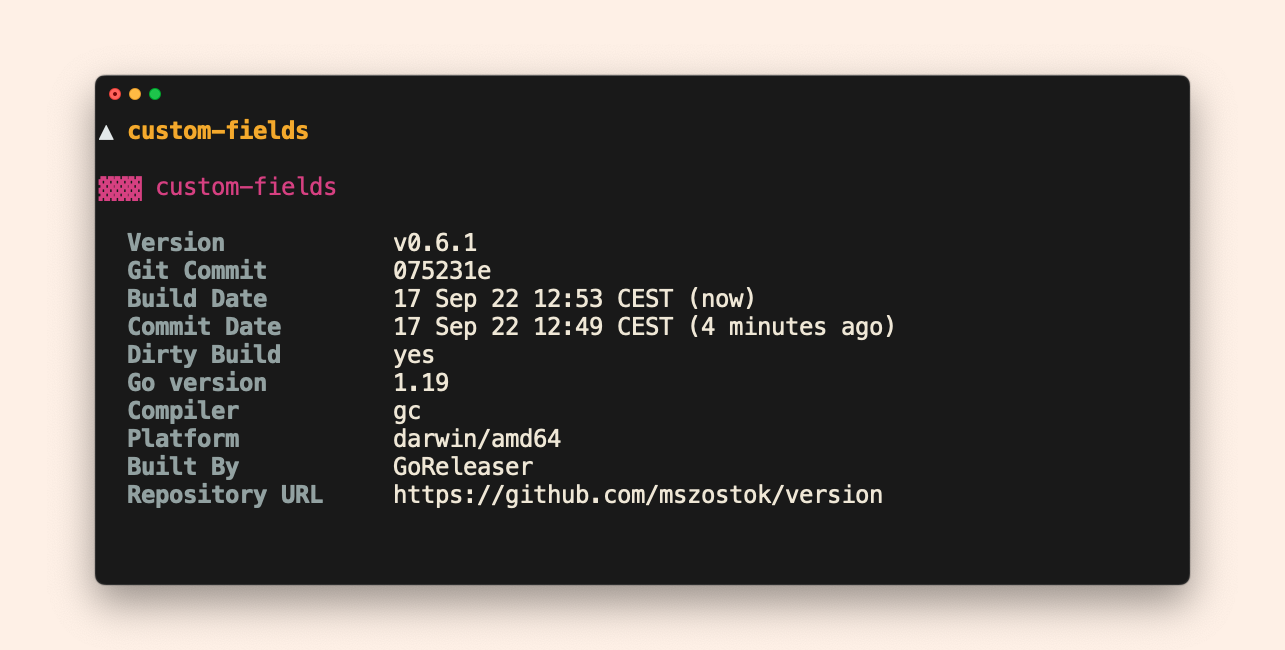
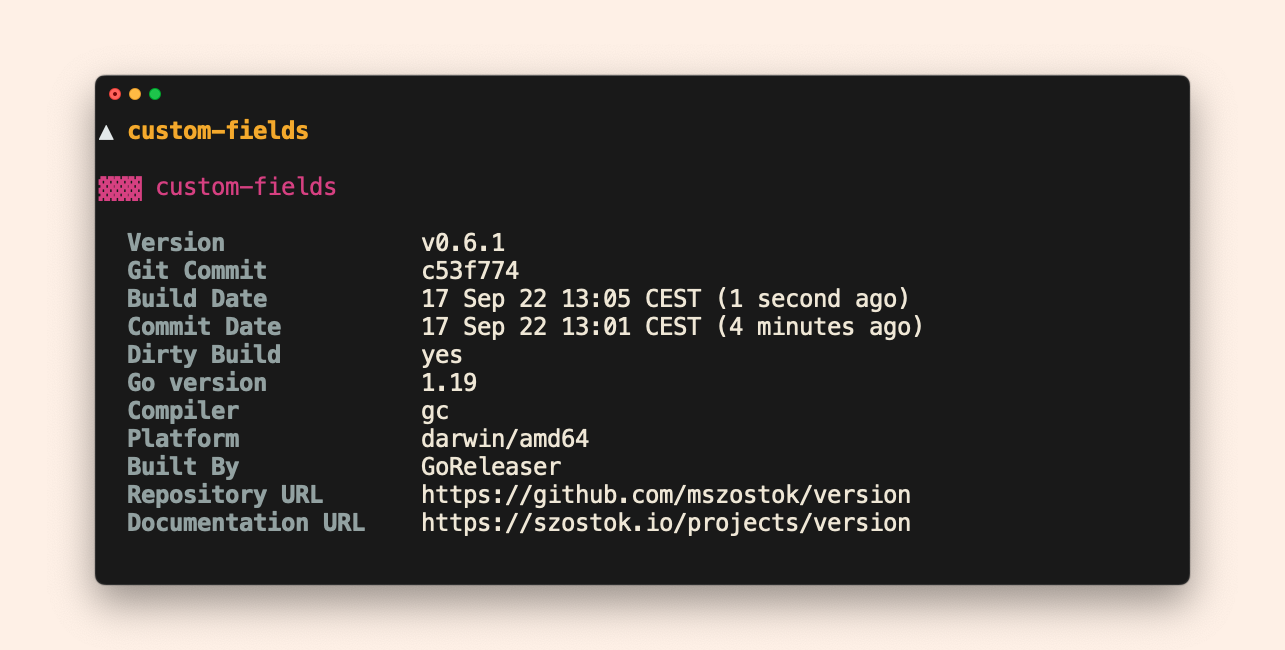
Add docs for extra fields

Changed region(s): [[0.2802, 0.3385, 0.716, 0.8308], [0.0934, 0.7692, 0.2802, 0.8308]]

diff --git a/style/render.go b/style/render.go
@@ -13,6 +13,7 @@ import (
 	"github.com/dustin/go-humanize"
 	"github.com/mattn/go-runewidth"
 	"github.com/muesli/termenv"
+	"gopkg.in/yaml.v3"
 
 	"go.szostok.io/version/style/termenvx"
 )
@@ -161,9 +162,19 @@ func (*GoTemplateRender) commit(in string) string {
 	return strings.TrimSpace(fmt.Sprintf("%.7s", in))
 }
 
-func (r *GoTemplateRender) val(in string) string {
+func (r *GoTemplateRender) val(in any) string {
 	c := NewTermenvStyle(r.colorProfile, r.config.Formatting.Val.FormatPrimitive)
-	return c.Styled(in)
+
+	switch str := in.(type) {
+	case string:
+		return c.Styled(str)
+	default:
+		out, err := yaml.Marshal(in)
+		if err != nil {
+			return err.Error()
+		}
+		return c.Styled(string(out))
+	}
 }
 
 func (*GoTemplateRender) fmtBool(in bool) string {

diff --git a/examples/custom-fields/main.go b/examples/custom-fields/main.go
@@ -12,11 +12,13 @@ type Custom struct {
 	// In the pretty mode, fields are printed in the same order as defined in struct.
 	BuiltBy string `json:"builtBy" yaml:"builtBy" pretty:"Built By"`
 	RepoURL string `json:"repoURL" yaml:"repoURL" pretty:"Repository URL"`
+	DocsURL string `json:"docsURL" yaml:"docsURL" pretty:"Documentation URL"`
 }
 
 func main() {
 	custom := Custom{
 		RepoURL: "https://github.com/mszostok/version",
+		DocsURL: "https://szostok.io/projects/version",
 		BuiltBy: "GoReleaser",
 	}
 

diff --git a/docs/customization/pretty/layout.md b/docs/customization/pretty/layout.md
@@ -7,16 +7,16 @@ To define the layout, use [Go templating](https://pkg.go.dev/html/template). You
 
 These are the fields that you can access in your Go template definition:
 
-| Key           | Description                                                                                                  |
-|---------------|--------------------------------------------------------------------------------------------------------------|
-| `.Version`    | Binary version value set via `-ldflags`, otherwise taken from `go install url/tool@version`.                 |
-| `.GitCommit`  | Git commit value set via `-ldfags`, otherwise taken from `debug.ReadBuildInfo()` - the `vcs.revision` tag.   |
-| `.BuildDate`  | Build date value set via `-ldflags`, otherwise empty.                                                        |
+| Key           | Description                                                                                                     |
+|---------------|-----------------------------------------------------------------------------------------------------------------|
+| `.Version`    | Binary version value set via `-ldflags`, otherwise taken from `go install url/tool@version`.                    |
+| `.GitCommit`  | Git commit value set via `-ldfags`, otherwise taken from `debug.ReadBuildInfo()` - the `vcs.revision` tag.      |
+| `.BuildDate`  | Build date value set via `-ldflags`, otherwise empty.                                                           |
 | `.CommitDate` | Git commit date value set via `-ldfags`, otherwise taken from `debug.ReadBuildInfo()` from the `vcs.time` tag.  |
 | `.DirtyBuild` | Dirty build value, set via `-ldfags`, otherwise taken from `debug.ReadBuildInfo()` from the `vcs.modified` tag. |
-| `.GoVersion`  | Go version taken from `runtime.Version()`.                                                                   |
-| `.Compiler`   | Go compiler taken from `runtime.Compiler`.                                                                   |
-| `.Platform`   | Build platform, passed in the following format: `runtime.GOOS/runtime.GOARCH`.                                                  |
+| `.GoVersion`  | Go version taken from `runtime.Version()`.                                                                      |
+| `.Compiler`   | Go compiler taken from `runtime.Compiler`.                                                                      |
+| `.Platform`   | Build platform, passed in the following format: `runtime.GOOS/runtime.GOARCH`.                                  |
 
 
 ## Go
@@ -69,7 +69,7 @@ To load the config file, you can:
     layout:
       goTemplate: |2
         {{ Header .Meta.CLIName }}
-    
+
           {{ Key "Version" }}             {{ .Version                     | Val }}
           {{ Key "Git Commit" }}          {{ .GitCommit  | Commit         | Val }}
           {{ Key "Build Date" }}          {{ .BuildDate  | FmtDate        | Val }}

diff --git a/docs/customization/extra-fields.md b/docs/customization/extra-fields.md
@@ -1,4 +1,42 @@
-!!! coming-soon "Coming soon"
+# Extra Info Fields
 
-    See the [mszostok/version#14](https://github.com/mszostok/version/issues/14) issue for reference. If you'd like to see it included in a future release, add 👍 under the issue.
+The `version` package supports most popular version fields natively.
 
+??? example "Native fields"
+     | Key           | Description                                                                                                     |
+     |---------------|-----------------------------------------------------------------------------------------------------------------|
+     | `.Version`    | Binary version value set via `-ldflags`, otherwise taken from `go install url/tool@version`.                    |
+     | `.GitCommit`  | Git commit value set via `-ldfags`, otherwise taken from `debug.ReadBuildInfo()` - the `vcs.revision` tag.      |
+     | `.BuildDate`  | Build date value set via `-ldflags`, otherwise empty.                                                           |
+     | `.CommitDate` | Git commit date value set via `-ldfags`, otherwise taken from `debug.ReadBuildInfo()` from the `vcs.time` tag.  |
+     | `.DirtyBuild` | Dirty build value, set via `-ldfags`, otherwise taken from `debug.ReadBuildInfo()` from the `vcs.modified` tag. |
+     | `.GoVersion`  | Go version taken from `runtime.Version()`.                                                                      |
+     | `.Compiler`   | Go compiler taken from `runtime.Compiler`.                                                                      |
+     | `.Platform`   | Build platform, passed in the following format: `runtime.GOOS/runtime.GOARCH`.                                  |
+
+     Check [build options](../get-started/build-ldflags) to learn how to override them if you need.
+
+However, each project may want to display more information such as documentation or changelog URLs, sometimes even domain related fields. You can provide them using your Go struct.
+
+## Usage
+
+!!! tip
+
+    Want to try? See the [custom fields](/examples#custom-fields) example!
+
+Steps:
+
+1. Assign your custom struct to `Info.ExtraFields`.
+
+      Go struct with nested fields are not properly supported in Pretty mode.
+
+2. Use `json`, `yaml` and `pretty` field tags to define the field name for a given output format.
+3. In the Pretty mode, fields are printed in the same order as defined in struct.
+
+Example:
+
+```go
+--8<--
+examples/custom-fields/main.go
+--8<--
+```
